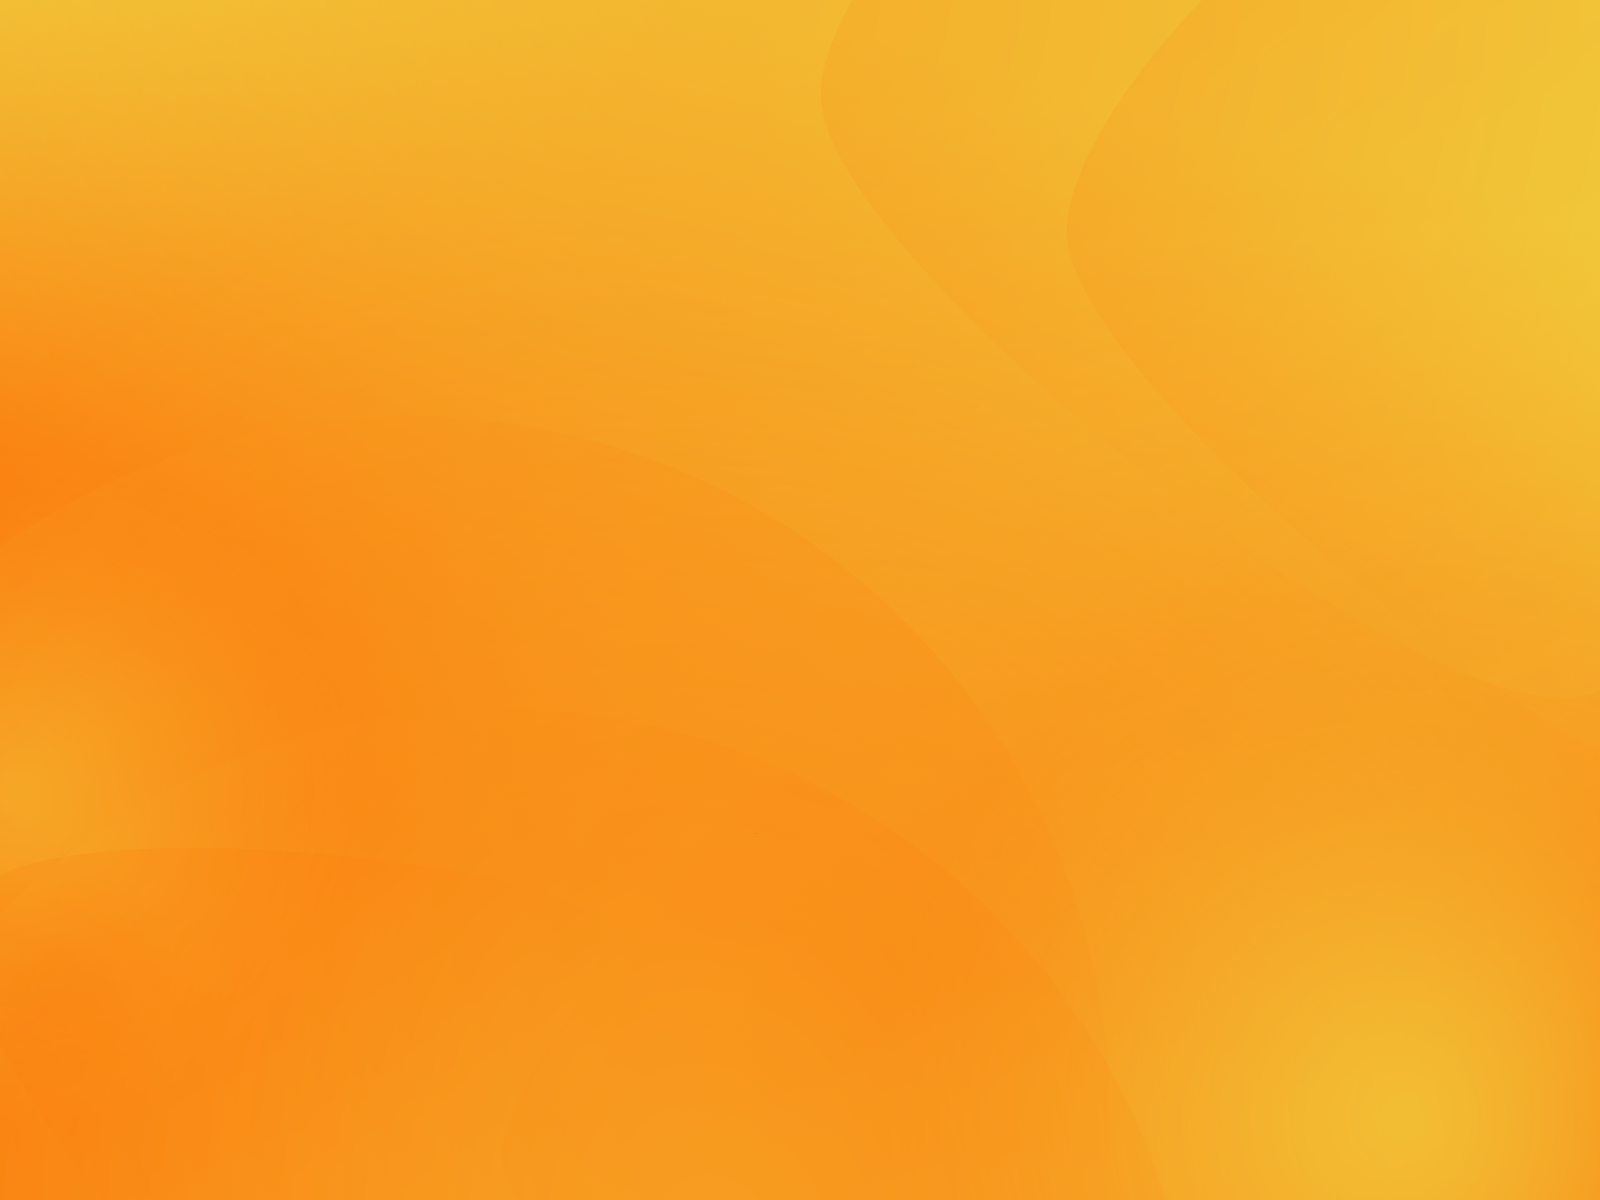
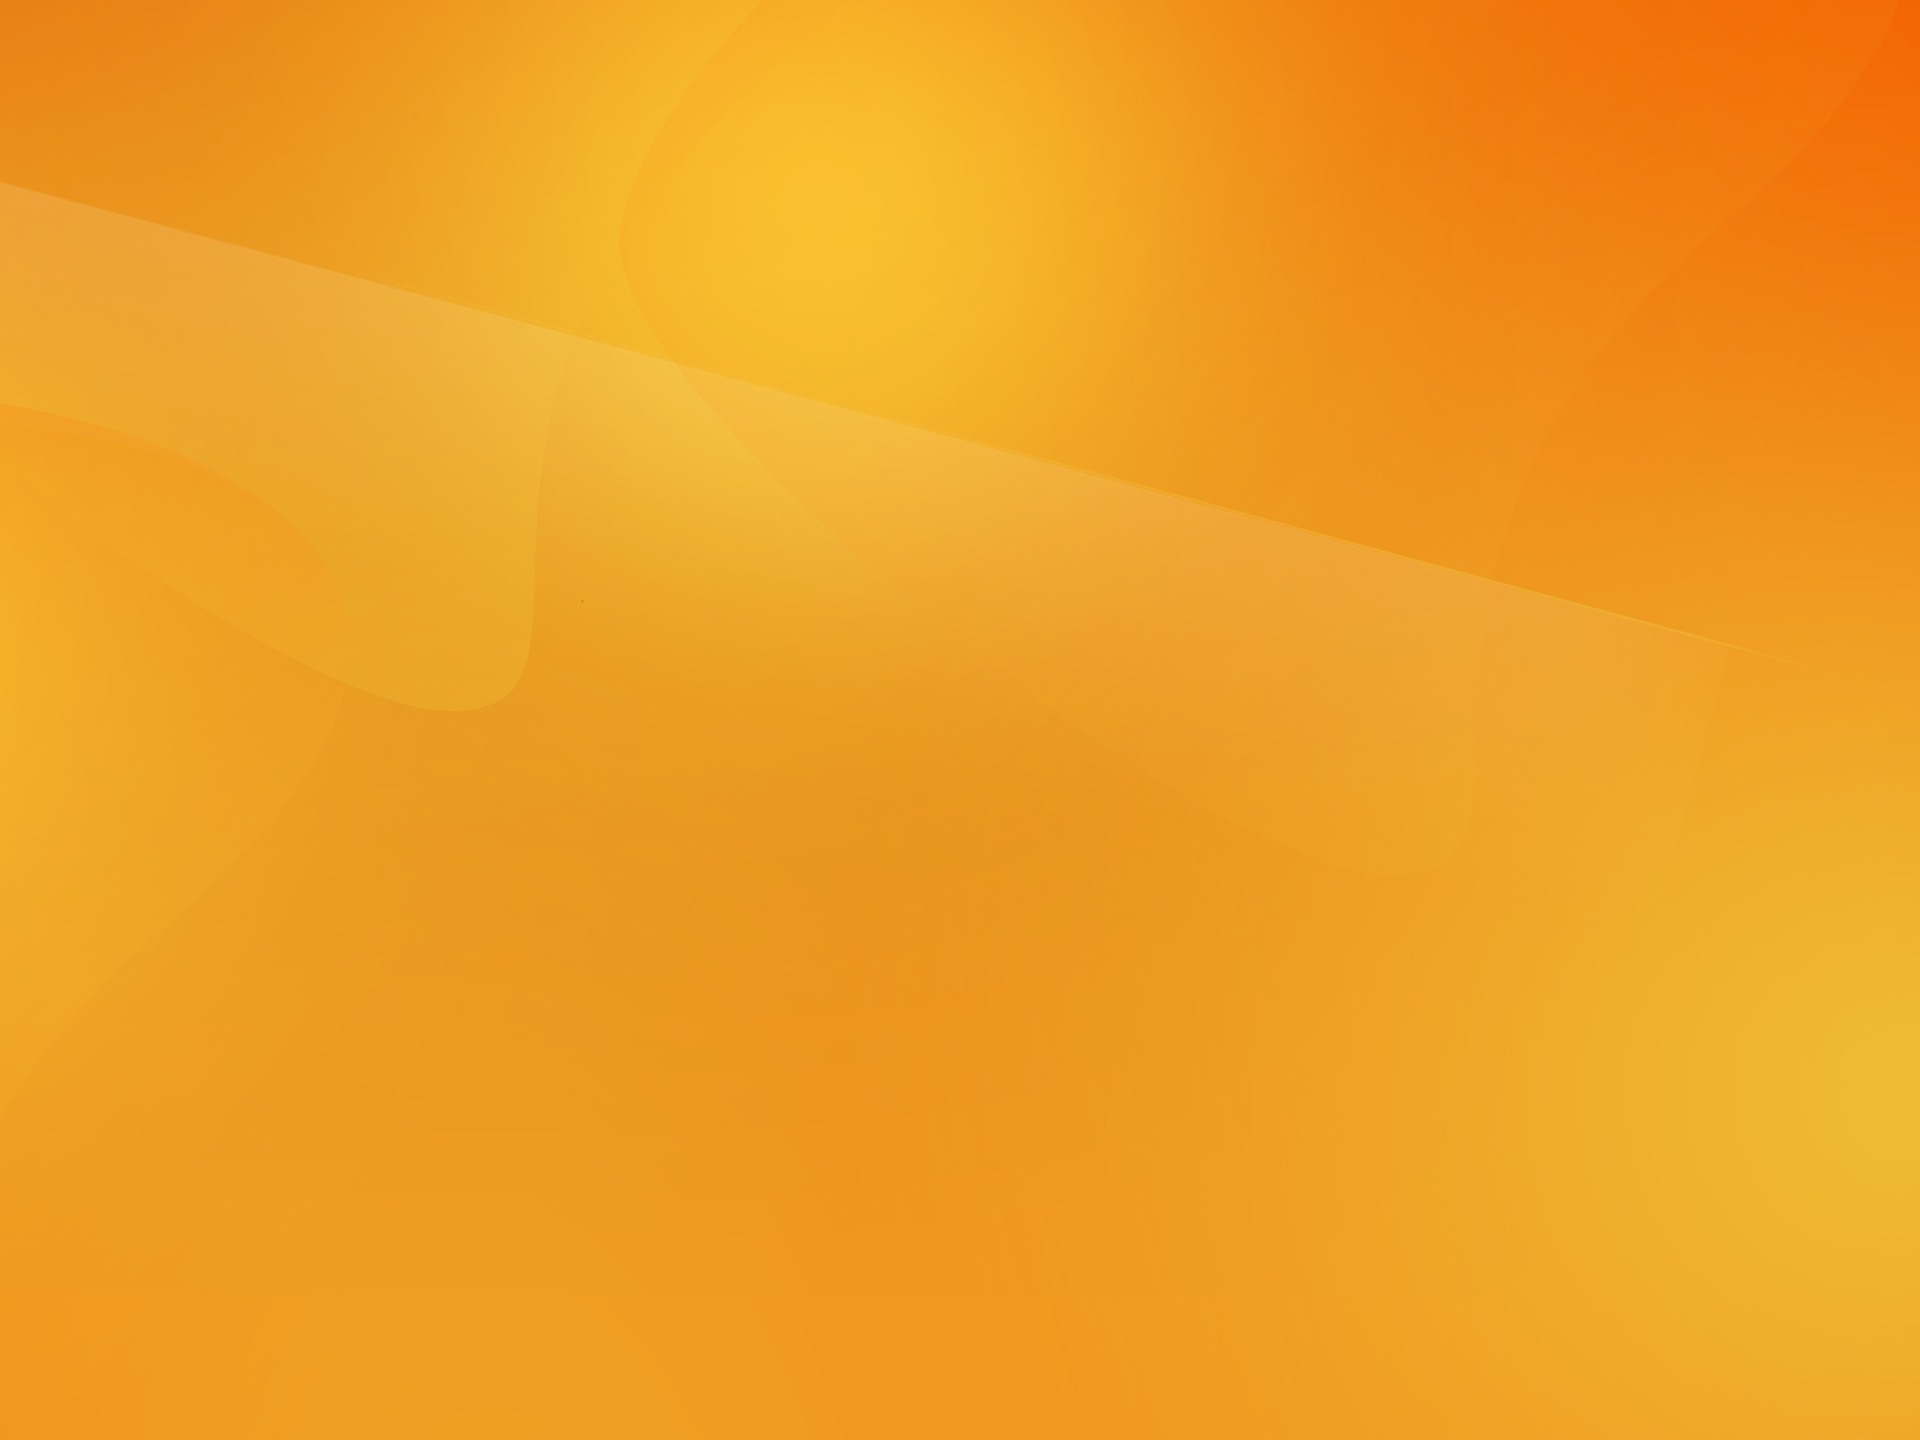
* Vita est vita..

diff --git a/branches/sysinfo/sysinfo/themes/2008/stil.css b/branches/sysinfo/sysinfo/themes/2008/stil.css
@@ -1,13 +1,19 @@
 body {
-    /*background-image:url('images/background.png');*/
-    background-color:black;
+    background-image:url('images/background.png');
+    !background-color:black;
     margin-left:0px;
-    color: white; text-shadow: #333 0.1em 0.1em 0.1em;
+    color: white; text-shadow: #000 0em 0em 0.3em;
 }
 
 a {
     color: white;
+    text-decoration:none;
 }
+
+a:hover {
+    color: white; text-shadow: #000 0em 0em 0.6em;
+}
+
 #logo {
     background-image:url('images/logo.png');
     background-repeat:no-repeat;
@@ -54,7 +60,7 @@ table.stock {
     font-size:12px;
     border:0px;
     border-spacing:0;
-    color: white; text-shadow: #555 1px 1px 1px
+    color: white; text-shadow: #000 1px 1px 1px
     margin-top:10px;
     width:96%;
 }
@@ -67,8 +73,7 @@ table.stock tr.info[onClick] {
 }
 
 table.stock tr.info[onClick]:hover {
-    text-shadow:none;
-    border-bottom:1px solid #000;
+    color: white; text-shadow: #000 0em 0em 0.6em;
 }
 
 table.stock tr.info td:nth-child(1) {
@@ -110,8 +115,8 @@ table.stock tr.progress td:nth-child(2) {
 table.stock tr.info td:nth-child(2)>span.detail {
     float:right;
     font-size:10px;
-    color:whte;
-    text-shadow:none;
+    color: white; text-shadow: #000 0px 1px 0.2em;
+    font-weight:bold;
 }
 table.stock tr.info td:nth-child(3) {
     background-image:url('images/tbSag.png');
@@ -135,29 +140,21 @@ table.medias {
     font-size:12px;
     border:0px;
     border-spacing:0;
-    color: white; text-shadow: #555 1px 1px 1px
-    margin-top:10px;
+    color: white; text-shadow: #000 0px 0px 0.3em;
 }
 table.medias tr.media {
     height:67px;
 }
 
-table.medias tr.media[onClick] {
-    cursor:pointer;
-}
-
-table.medias tr.media[onClick]:hover {
-    text-shadow:none;
-    border-bottom:1px solid #000;
-}
-
 table.medias tr.media td:nth-child(1) {
+    padding-left:8px;
     background-image:url('images/mdSol.png');
     background-repeat:no-repeat;
     width:56px;
 }
 table.medias tr.media td:nth-child(1)>img {
     padding: 4px;
+    padding-left:8px;
     padding-top:0px;
     width:48px;
     height:48px;
@@ -170,9 +167,8 @@ table.medias tr.media td:nth-child(2) {
 table.medias tr.media td:nth-child(2)>span.detail {
     float:right;
     font-size:10px;
-    color:whte;
+    color: white; text-shadow: #000 0px 1px 0.2em;
     font-weight:bold;
-    text-shadow:none;
 }
 table.medias tr.media td:nth-child(3) {
     background-image:url('images/mdSag.png');
@@ -201,5 +197,17 @@ img.diskusage {
 }
 span.mediaDf {
     font-size:11px;
+}
+img.mediaIcon {
+    padding:4px;
+    padding-left:0px;
+    float:left;
+}
+div.device {
+    width:100%;
+}
+span.deviceInfo {
+    float:left;
+    padding-left:7px;
 }
 

diff --git a/branches/sysinfo/sysinfo/sysinfo.cpp b/branches/sysinfo/sysinfo/sysinfo.cpp
@@ -168,7 +168,7 @@ void kio_sysinfoProtocol::get( const KURL & /*url*/ )
 
     // net info
     int state = netInfo();
-    if (state > 1) { // assume no network manager / networkstatus
+    if (state >= 1) { // assume no network manager / networkstatus
         dynamicInfo += startStock( i18n( "Network" ) );
         dynamicInfo += addToStock( "network", netStatus( state ), "127.0.0.1" );
         dynamicInfo += finishStock();
@@ -194,7 +194,7 @@ void kio_sysinfoProtocol::get( const KURL & /*url*/ )
     // Os info
     osInfo();
     staticInfo += startStock( i18n( "Operating System" ) );
-    staticInfo += addToStock( "system", m_info[OS_SYSNAME] + " <b>" + m_info[OS_RELEASE] + "</b> " + m_info[OS_MACHINE], m_info[OS_USER] + "@" + m_info[OS_HOSTNAME] );
+    staticInfo += addToStock( "system", m_info[OS_SYSNAME] + " <b>" + m_info[OS_RELEASE] + "</b>", m_info[OS_USER] + "@" + m_info[OS_HOSTNAME] );
     staticInfo += addToStock( "system", i18n( "Kde <b>%1</b> on <b>%2</b>" ).arg(KDE::versionString()).arg( m_info[OS_SYSTEM] ));
     staticInfo += finishStock();
 
@@ -259,39 +259,6 @@ void kio_sysinfoProtocol::mimetype( const KURL & /*url*/ )
     finished();
 }
 
-static unsigned long int scan_one( const char* buff, const char *key )
-{
-    char *b = strstr( buff, key );
-    if ( !b )
-        return 0;
-    unsigned long int val = 0;
-    if ( sscanf( b + strlen( key ), ": %lu", &val ) != 1 )
-        return 0;
-    kdDebug() << "scan_one " << key << " " << val << endl;
-    return val;
-}
-
-static unsigned long int calculateFreeRam()
-{
-    FILE *fd = fopen( "/proc/meminfo", "rt" );
-    if ( !fd )
-        return 0;
-
-    QTextIStream is( fd );
-    QString MemInfoBuf = is.read();
-
-    unsigned long int MemFree = scan_one( MemInfoBuf.latin1(), "MemFree" );
-    unsigned long int Buffers = scan_one( MemInfoBuf.latin1(), "Buffers" );
-    unsigned long int Cached  = scan_one( MemInfoBuf.latin1(), "Cached" );
-    unsigned long int Slab    = scan_one( MemInfoBuf.latin1(), "Slab" );
-    fclose( fd );
-
-    MemFree += Cached + Buffers + Slab;
-    if ( MemFree > 50 * 1024 )
-        MemFree -= 50 * 1024;
-    return MemFree;
-}
-
 unsigned long int kio_sysinfoProtocol::memoryInfo()
 {
     struct sysinfo info;
@@ -354,11 +321,14 @@ QString kio_sysinfoProtocol::diskInfo()
             peer == 0 ? percent = 0 : percent = usage / peer;
             QString sizeStatus = i18n( "%1 free of %2" ).arg( formattedUnit( di.avail,0 ) ).arg( formattedUnit( di.total,0 ) );
 
-            result +=   QString("<tr class=\"media\" onClick=\"location.href='media:/%1'\">"
-                                "   <td><img src=\"%2\" /></td>"
+            result +=   QString("<tr class=\"media\">"
                                 "   <td>"
-                                "       <span class=\"detail\">[ Mounted on %3 ]<br>[ %4 ]</span>"
-                                "       <a href=\"media:/%5\">%6</a><br><span class=\"mediaDf\">%7</span><br>"
+                                "   <a href=\"media:/%1\">"
+                                "       <img src=\"%2\" />"
+                                "   </a></td><td>"
+                                "       <span class=\"detail\">[ Mounted on %3 ]<br><span style=\"float:right\">[ %4 ]</span></span>"
+                                "       <a href=\"media:/%5\">"
+                                "       %6<br><span class=\"mediaDf\">%7</span><br></a>"
                                 "       <img class=\"diskusage\" src=\"file:%8\" width=\"%9%\">"
                                 "   </td>"
                                 "   <td></td>"
